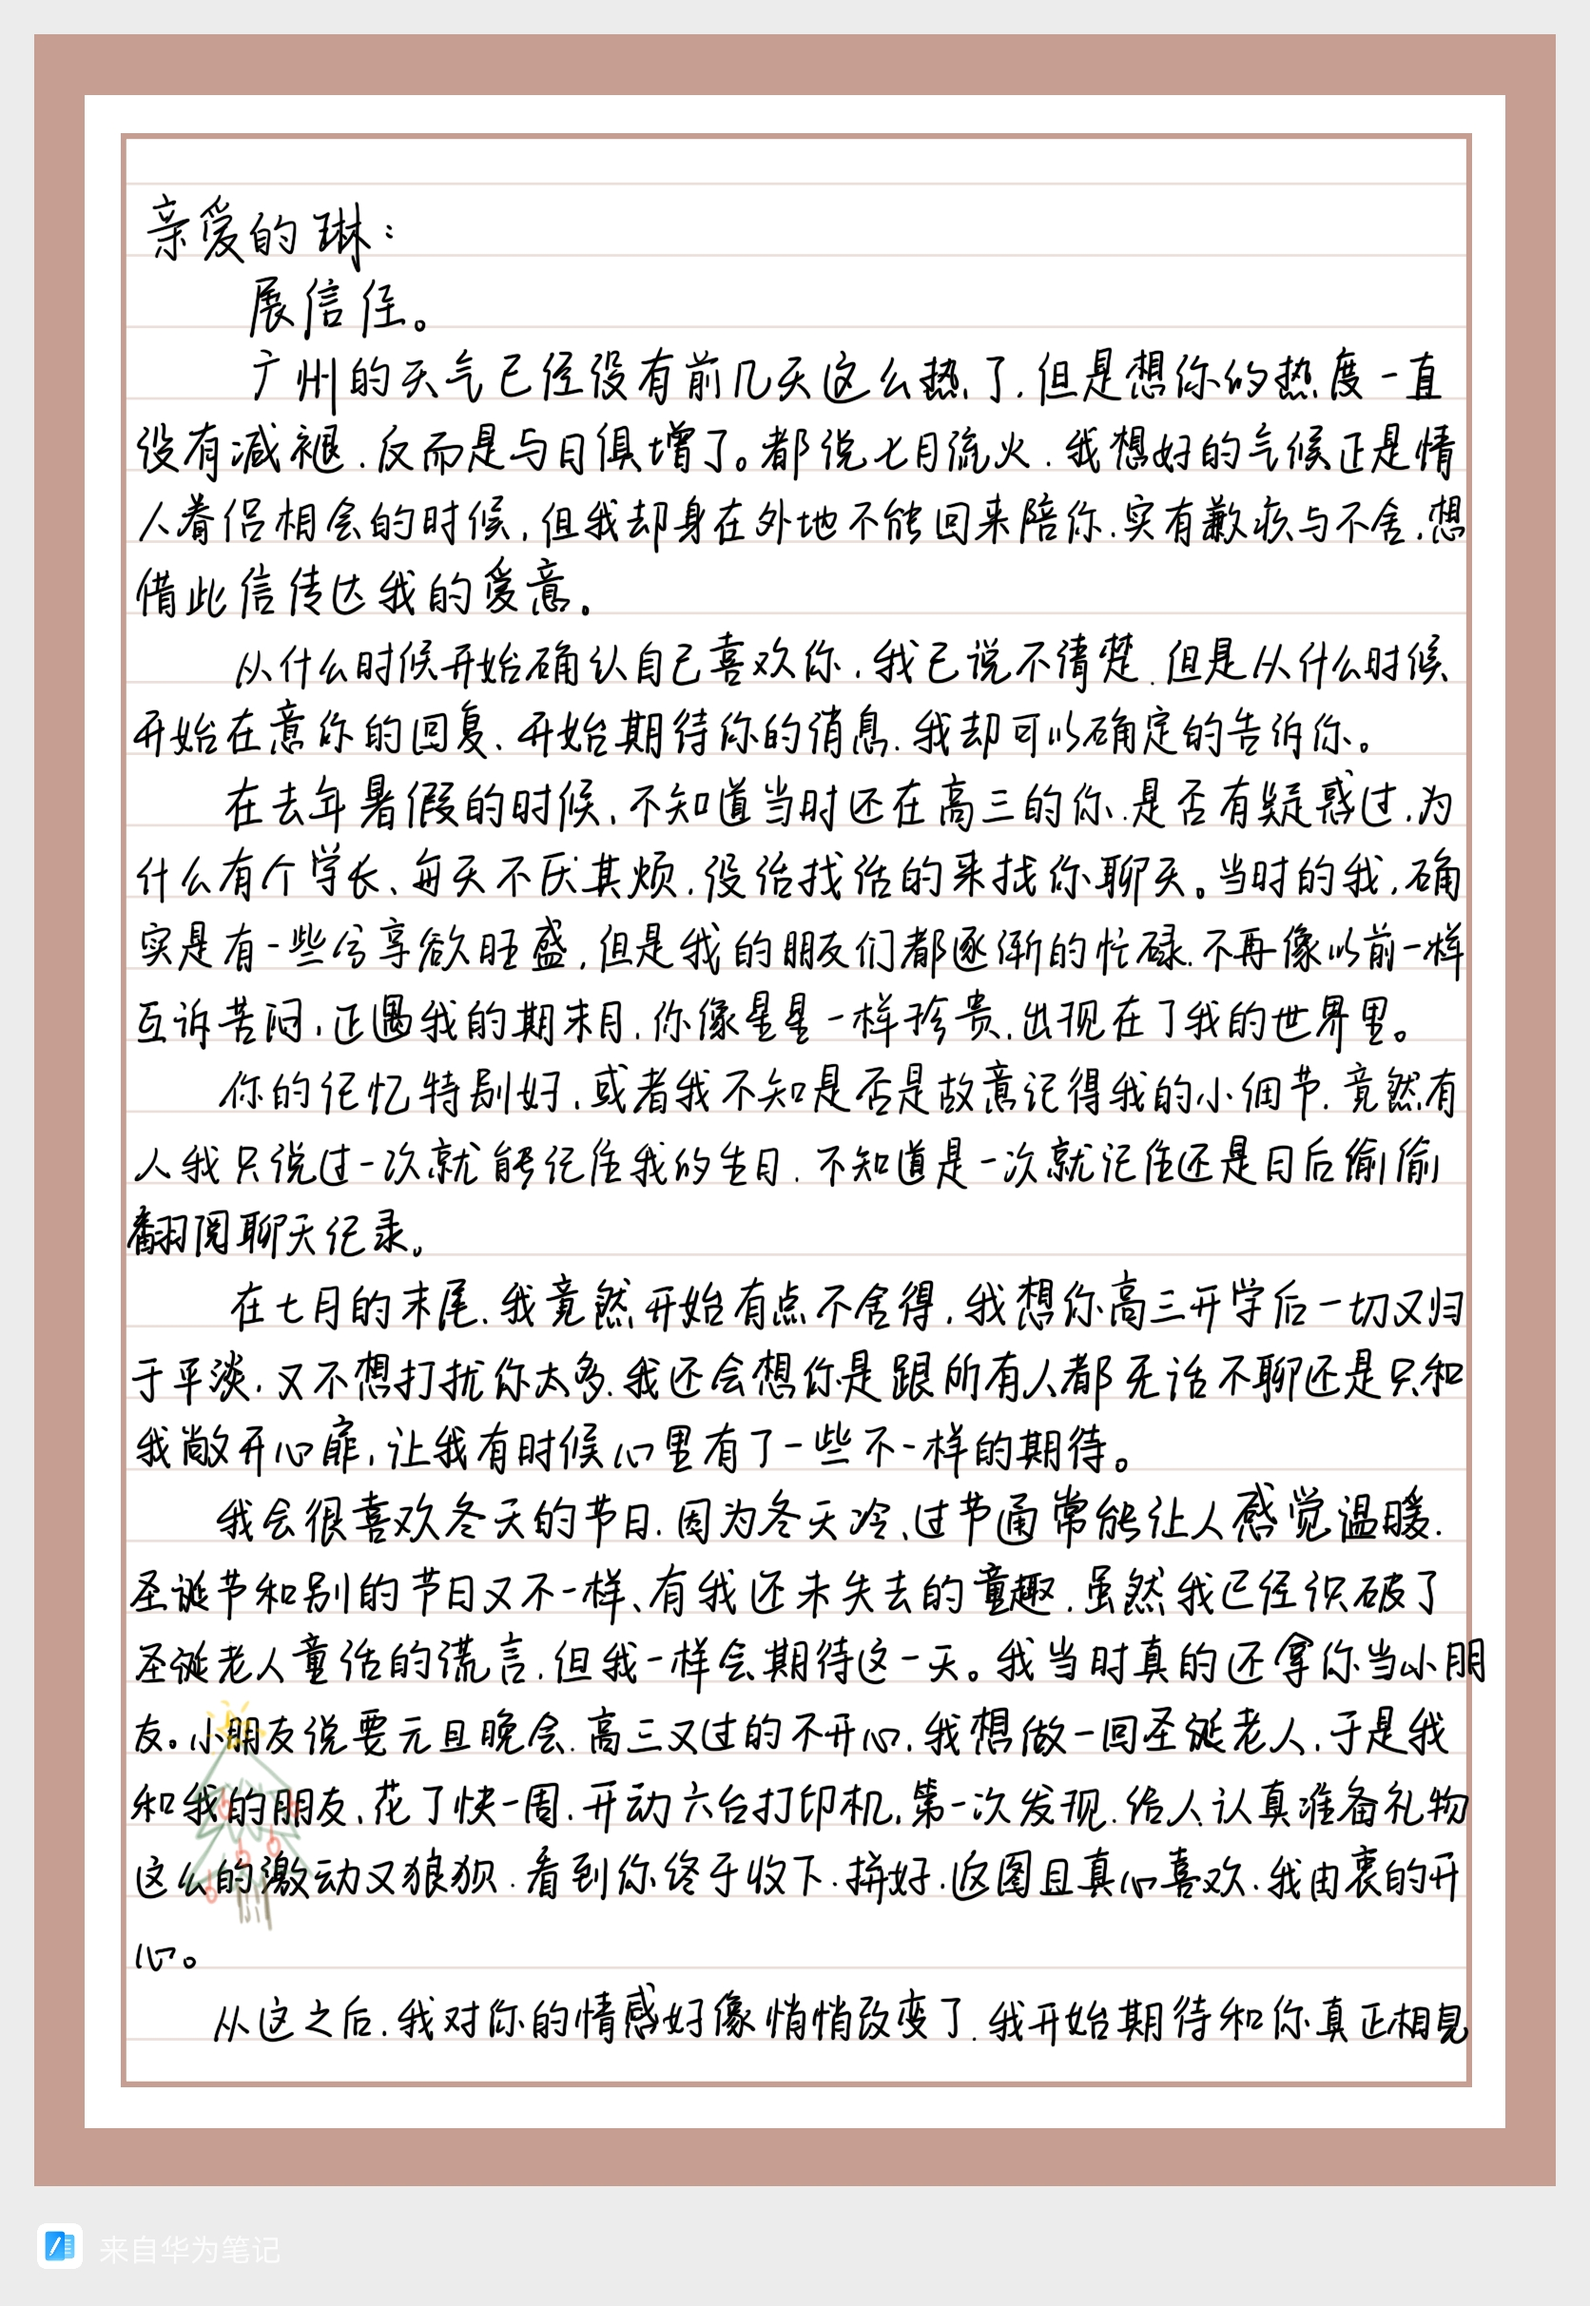
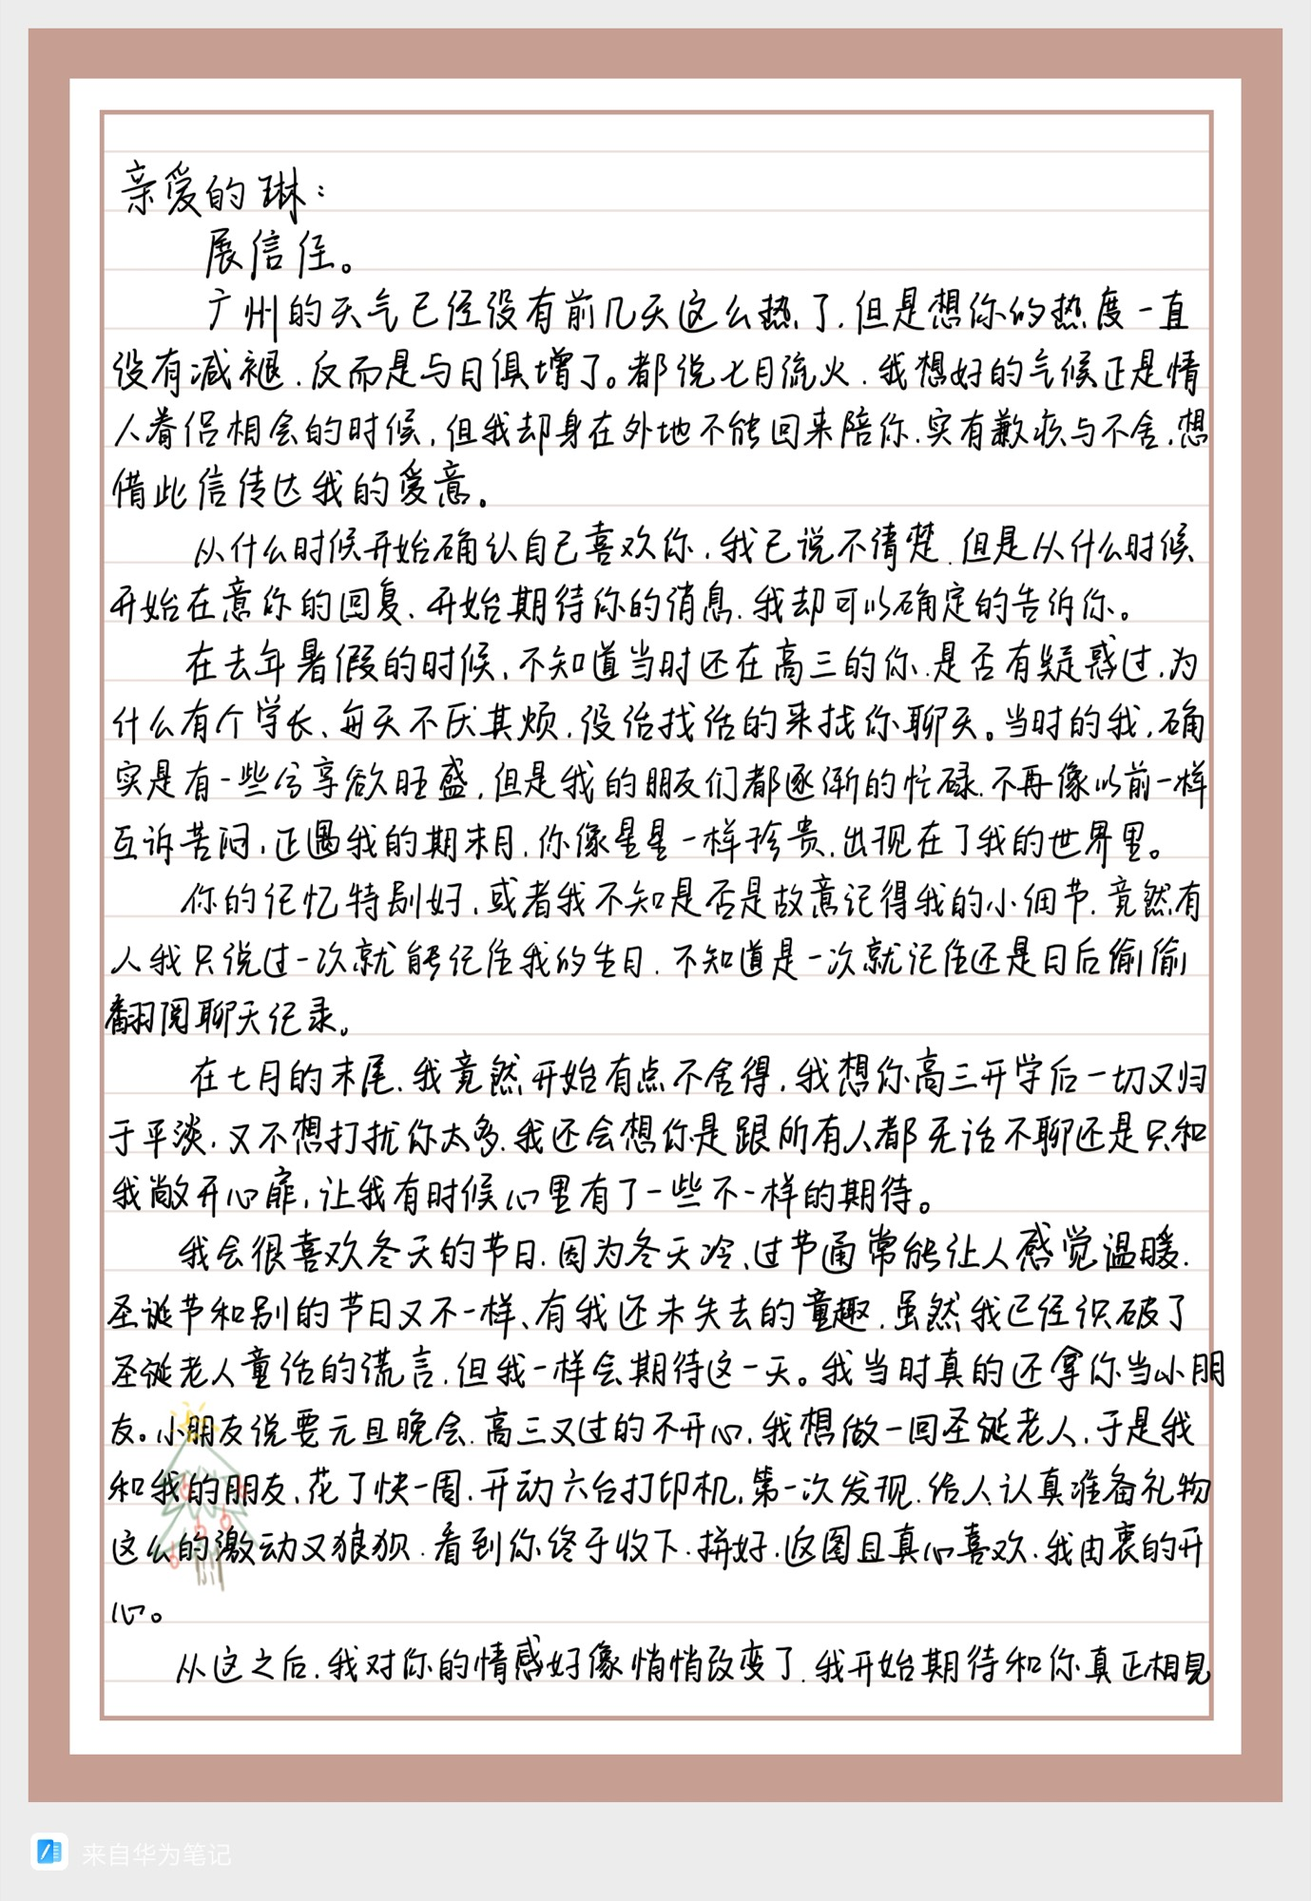
信纸提速：三页扫描件压缩至1.6MB（原图已另存备份）+ 选中/拆信时预加载信纸

diff --git a/js/app.js b/js/app.js
@@ -418,6 +418,14 @@
     scrollEl.scrollTo({ left: Math.max(0, target), behavior: 'smooth' });
   }
 
+  /* 预加载：选中或拆信时，趁换装/拆信动画的间隙把信纸先拉下来 */
+  function prefetchPages(letter) {
+    ((letter && letter.pages) || []).forEach(function (p) {
+      const im = new Image();
+      im.src = fresh(p);
+    });
+  }
+
   /* 换信 = 换主屏信封 + 换整站皮肤 + 预览栏跟随 */
   function selectLetter(idx) {
     const n = letters.length;
@@ -427,6 +435,7 @@
     setTheme(letters[selectedIdx].theme);
     updateShelfActive();
     centerSelected();
+    prefetchPages(letters[selectedIdx]);
   }
 
   if (!letters.length) {
@@ -494,6 +503,7 @@
   function openLetter(idx, btn) {
     if (currentEnv && currentEnv.busy) return;   // 上一封还没合上
     lastFocus = btn;
+    prefetchPages(letters[idx]);                 // 拆信动画 ~2.2s，趁机下载信纸
     currentEnv = new Envelope(btn);
     currentEnv.open(function () { showReading(idx, true); });
   }
